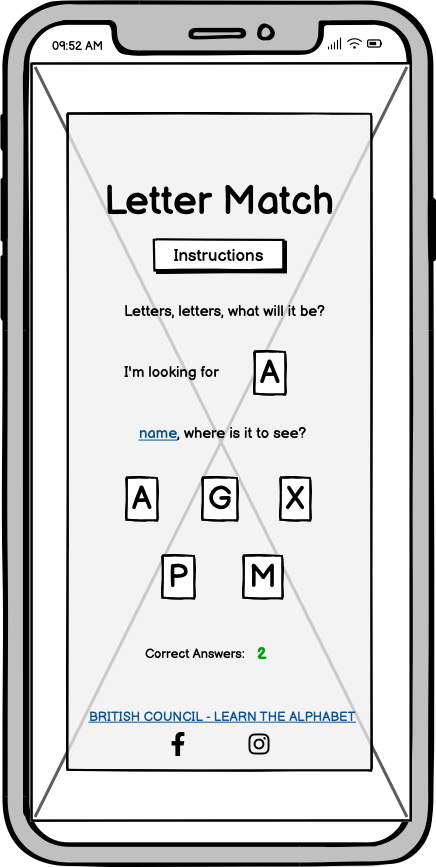
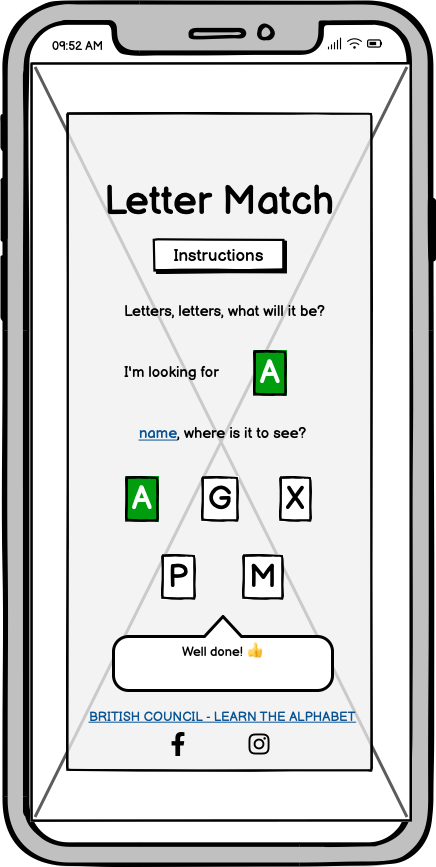
Correct wireframes for correct and wrong answer

Changed region(s): [[0.2385, 0.7163, 0.7752, 0.8097], [0.2683, 0.5294, 0.3876, 0.6228], [0.5665, 0.4048, 0.656, 0.4671]]

diff --git a/README.md b/README.md
@@ -98,8 +98,8 @@ Unfortunately, due to lack of time, I did not manage to set the background color
 <br>
 During coding I decided to give the child another try to find the correct answer, so that he/she/they could improve his/her/their skill. Therefore, displaying the correct letter was no longer necessary.<br>
 
-![Mobile wireframe](documentation/wireframes/letter-match-game-mobil-wrong.png)
-![Desktop wireframe](documentation/wireframes/letter-match-game-mobil-wrong.png)
+![Mobile wireframe](documentation/wireframes/letter-match-game-desktop-wrong.png)
+![Desktop wireframe](documentation/wireframes/letter-match-game-desktop-wrong.png)
 
 </details>
 
